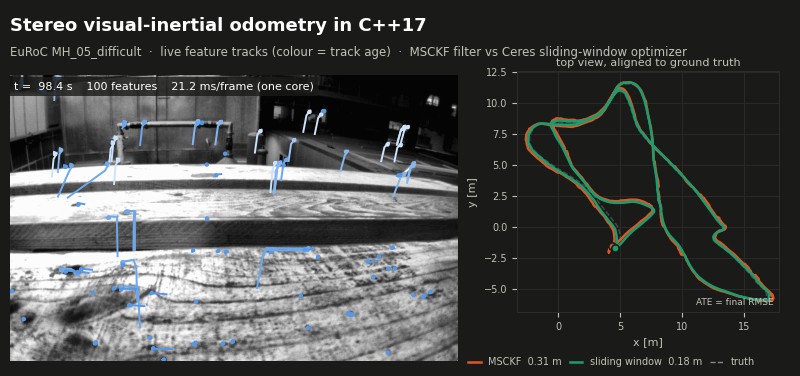
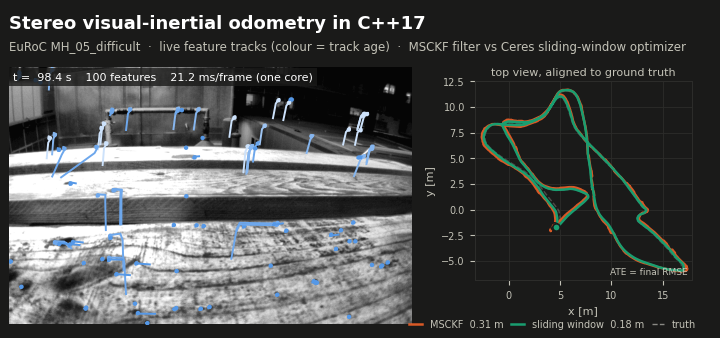
Root README for a quick read: short bullets, tech stack, fair table, smaller GIF
- one-line bullets with the number first; tool list under the title
- table shows mean ATE over the 10 sequences every method completes and
  over all 11; ATE explained in one line
- the Python usage docs move to Code/README.md, which also states what
  came from the course starter code
- demo GIF 9.6 -> 5.3 MB (every 16th frame, 720 px, 64 colours); right
  panel title no longer overlaps the subtitle

diff --git a/cpp/scripts/make_demo_gif.py b/cpp/scripts/make_demo_gif.py
@@ -10,8 +10,9 @@ The README GIF was made with:
   python scripts/make_demo_gif.py --seq-path /path/to/MH_05_difficult \
       --run-dir results/demo/MH_05_difficult \
       --msckf results/backends/msckf/MH_05_difficult/traj_cpp.txt \
-      --out results/final/demo_mh05.gif --step 12 --fps 11 --width 800 --lossy 110
-(every 12th frame at 11 fps: about 6x real time). `run-dir` holds a
+      --out results/final/demo_mh05.gif --step 16 --fps 10 --width 720 --colors 64 \
+      --gray-levels 24 --lossy 150
+(every 16th frame at 10 fps: about 8x real time, 5.4 MB). `run-dir` holds a
 sliding-window run with --dump-features (features_cpp.txt, traj_cpp.txt,
 timing_cpp.csv).
 """
@@ -111,7 +112,7 @@ def main():
     H = W * 0.47
     fig = plt.figure(figsize=(W, H), dpi=dpi, facecolor=SURFACE)
     ax_img = fig.add_axes([0.012, 0.03, 0.56, 0.78])
-    ax_tr = fig.add_axes([0.64, 0.17, 0.34, 0.64])
+    ax_tr = fig.add_axes([0.64, 0.17, 0.34, 0.59])   # top clear of the subtitle
     fig.text(0.012, 0.93, 'Stereo visual-inertial odometry in C++17', color=TEXT, fontsize=13,
              weight='bold', va='center')
     fig.text(0.012, 0.86, f'EuRoC {seq}  ·  live feature tracks (colour = track age)  ·  '

diff --git a/README.md b/README.md
@@ -2,32 +2,33 @@
 
 [![cpp](https://github.com/Shakthi-Bala/Classical_vio/actions/workflows/cpp.yml/badge.svg?branch=cpp)](https://github.com/Shakthi-Bala/Classical_vio/actions/workflows/cpp.yml)
 
+**C++17 · Eigen · Ceres Solver · OpenCV · ROS 2 · CMake · GoogleTest · GitHub Actions · gperftools · Python / NumPy · SLURM**
+
 ![demo](cpp/results/final/demo_mh05.gif)
 
-A stereo MSCKF written in Python, then rebuilt in C++17 and extended:
+A stereo MSCKF implemented in Python for a WPI course (RBE/CS549), then rebuilt in C++17
+and taken further:
 
-- **Port checked against the original.** Fed the same features, the C++ filter matches
-  the Python to 1e-9 m, and the front end produces identical features on every frame.
-- **About 3x faster.** 8.1 ms per frame on one core (6.2x real time) against 25.3 ms for
-  the Python on the same node, after profiling with stage timers, a sampling profiler and
-  flame graphs.
-- **Python quirks measured.** 9 behaviours of the Python code were reproduced on purpose
-  and ablated on 11 EuRoC sequences. The fixes that help cut mean trajectory error from
-  0.615 to 0.249 m.
+- **Exact port:** the C++ filter matches the Python to 1e-9 m on identical input.
+- **3x faster:** 8.1 ms per frame on one core (6.2x real time), against 25.3 ms in Python.
 - **Ceres sliding-window optimizer** written from scratch: IMU preintegration,
-  inverse-depth landmarks, Schur-complement marginalization, analytic Jacobians.
-- **Robust to stereo loss.** On V2_03, cam0's long exposure blurs the images, so the
-  stereo matches vanish for seconds. Keeping cam0-only tracks takes that sequence from
-  0.68 m (and a diverging sliding window) to 0.15–0.20 m.
-- **ROS 2 node** whose real-time output matches the offline run, benchmarked against
-  VINS-Fusion on the same data and metric. 22 unit tests, run in CI.
+  marginalization, analytic Jacobians.
+- **0 failures on all 11 EuRoC sequences**, after finding and fixing why stereo tracking
+  died on the hardest one (V2_03).
+- **Beats VINS-Fusion:** the sliding window averages 0.156 m against 0.217 m, at a third of
+  its latency per frame in ROS 2.
+- **Tested:** 22 unit tests in CI; the inherited Python behaviours were ablated on 11
+  sequences.
 
-| All 11 EuRoC sequences | mean ATE | failures | latency / frame (MH_01) |
-|---|---|---|---|
-| Python MSCKF | 0.390 m (10 seq.) | 1 (crash) | 25 ms offline, 1 core |
-| C++ MSCKF | 0.200 m | 0 | 10.7 ms end to end in ROS 2, 1 core |
-| C++ sliding window | 0.156 m | 0 | 19.1 ms end to end in ROS 2, 1 core |
-| VINS-Fusion (no loop closure) | 0.217 m | 0 | 61 ms end to end in ROS 2, 4 cores |
+| EuRoC MAV | mean ATE, 10 seq. | mean ATE, all 11 | failures | latency / frame (MH_01) |
+|---|---|---|---|---|
+| Python MSCKF | 0.390 m | - | 1 (crash) | 25 ms (offline, no ROS node) |
+| C++ MSCKF | 0.206 m | 0.200 m | 0 | 10.7 ms end to end in ROS 2, 1 core |
+| C++ sliding window | **0.152 m** | **0.156 m** | 0 | 19.1 ms end to end in ROS 2, 1 core |
+| VINS-Fusion (no loop closure) | 0.207 m | 0.217 m | 0 | 61 ms end to end in ROS 2, 4 cores |
+
+*ATE: absolute trajectory error after SE3 alignment. "10 seq." are the sequences every
+method completes; the Python crashes on V2_03.*
 
 <table>
 <tr>
@@ -45,114 +46,12 @@ A stereo MSCKF written in Python, then rebuilt in C++17 and extended:
 </table>
 
 **→ Write-up, plots and how to reproduce: [`cpp/README.md`](cpp/README.md)**
-· Code: [`cpp/`](cpp) (C++17) · original Python: [`Code/`](Code)
 
----
-
-## Original Python implementation
-
-### Stereo MSCKF — Visual-Inertial Odometry (Python)
-
-
-MSCKF (Multi-State Constraint Kalman Filter) is an EKF-based **tightly-coupled**
-visual-inertial odometry algorithm.
-[S-MSCKF](https://arxiv.org/abs/1712.00036) is its stereo version.
-This project is a Python re-implementation translated from the official C++
-implementation [KumarRobotics/msckf_vio](https://github.com/KumarRobotics/msckf_vio).
-
----
-
-## Requirements
-
-```
-Python 3.6+
-numpy
-scipy
-opencv-python   (cv2)
-matplotlib
-pangolin        (optional — only needed for --view)
-```
-
-Install the required packages:
-
-```bash
-pip install numpy scipy opencv-python matplotlib
-```
-
----
-
-## Dataset
-
-Download the [EuRoC MAV dataset](http://projects.asl.ethz.ch/datasets/doku.php?id=kmavvisualinertialdatasets).
-This project has been tested on **MH_01_easy**.
-
-Expected folder structure:
-
-```
-MH_01_easy/
-└── mav0/
-    ├── cam0/data/          # left camera images
-    ├── cam1/data/          # right camera images
-    ├── imu0/data.csv       # IMU measurements
-    └── state_groundtruth_estimate0/data.csv
-```
-
-> **Absolute path note:** the default dataset path in `vio.py` is hardcoded to
-> `/home/alien/YourDirectoryID_p4/MH_01_easy`.
-> Pass `--path` explicitly if your dataset lives elsewhere (see commands below).
-
----
-
-## Running
-
-### Basic run (no visualisation)
-
-```bash
-cd Code
-python vio.py
-```
-
-### With a custom dataset path
-
-```bash
-python vio.py --path /path/to/MH_01_easy
-```
-
-### With live 3-D trajectory viewer (requires pangolin)
-
-```bash
-python vio.py --view
-```
-
----
-
-## Outputs
-
-| Location | Contents |
+| Directory | Contents |
 |---|---|
-| `output_frames/frame_XXXXX.png` | Per-frame canvas: grey GT path, black estimated path, camera frustum, stereo feature inset with GT/EST position text |
-| `plots/1_rotation_error.png` | Roll (blue), Pitch (green), Yaw (red) error over time |
-| `plots/2_translation_error.png` | X (red), Y (green), Z (blue) translation error over time |
-| `plots/3a_trajectory_xy.png` | GT (pink) vs estimated (blue) — top-down X–Y view |
-| `plots/3b_trajectory_xz.png` | GT (pink) vs estimated (blue) — X–Z view |
-| `plots/4_scale_drift.png` | Scale ratio vs cumulative distance travelled |
-| `plots/5a_rpe_scaramuzza.png` | RPE mean ± std at multiple segment lengths (Scaramuzza IROS 2018) |
-| `plots/5b_relative_errors_vs_dist.png` | Relative translation (%) and yaw error (deg) vs distance |
-| `plots/6_ate_over_time.png` | Absolute Trajectory Error (Umeyama SE3 aligned) |
-| `plots/rmse_report.txt` | RMSE summary: ATE, rotation, scale drift |
+| [`cpp/`](cpp) | C++17 VIO: MSCKF and sliding-window back ends, ROS 2 node, tests, evaluation scripts, results |
+| [`Code/`](Code) | the original Python MSCKF ([README](Code/README.md)) |
 
-All plots and the RMSE report are generated automatically at the end of the run.
-
----
-
-## License
-
-Follows the [license of msckf_vio](https://github.com/KumarRobotics/msckf_vio/blob/master/LICENSE.txt).
-Code adapted from [uoip/stereo_msckf](https://github.com/uoip/stereo_msckf).
-
-
-
- ## Dataset link 
- ```bash
-https://drive.google.com/drive/folders/10sMVL7Df9jisSE0bZe9T_aaj9QrB7xNw
-```
+The Python code builds on the course's starter code, translated from
+[KumarRobotics/msckf_vio](https://github.com/KumarRobotics/msckf_vio); it follows the
+[msckf_vio license](https://github.com/KumarRobotics/msckf_vio/blob/master/LICENSE.txt).

diff --git a/Code/README.md b/Code/README.md
@@ -1,32 +1,78 @@
-# Stereo MSCKF Starter Code for [WPI's](https://www.wpi.edu/) [RBE/CS549](https://nitinjsanket.github.io/teaching/rbe549/fall2022.html) by [Prof. Nitin J. Sanket](https://nitinjsanket.github.io/)
-See [the course website](https://nitinjsanket.github.io/teaching/rbe549/fall2022.html) for more details. The code was modified by [Dr. Lening Li.](https://lening.li/)
+# Stereo MSCKF in Python
 
-MSCKF (Multi-State Constraint Kalman Filter) is an EKF based **tightly-coupled** visual-inertial odometry algorithm. [S-MSCKF](https://arxiv.org/abs/1712.00036) is MSCKF's stereo version. This project is a Python reimplemention of S-MSCKF, the code is directly translated from official C++ implementation [KumarRobotics/msckf_vio](https://github.com/KumarRobotics/msckf_vio).  
+The Python stereo MSCKF that the C++ port in [`../cpp`](../cpp) reproduces. It was built for
+[WPI's](https://www.wpi.edu/) [RBE/CS549](https://nitinjsanket.github.io/teaching/rbe549/fall2022.html)
+(Prof. [Nitin J. Sanket](https://nitinjsanket.github.io/)) on the course's starter code,
+modified by [Dr. Lening Li](https://lening.li/). The filter functions (gravity and bias
+initialization, IMU processing, process model, state augmentation, measurement update,
+pruning) were implemented in this project; the starter code is the first commits.
 
+MSCKF (Multi-State Constraint Kalman Filter) is an EKF-based tightly coupled
+visual-inertial odometry algorithm. [S-MSCKF](https://arxiv.org/abs/1712.00036) is its
+stereo version. The starter code is translated from the official C++ implementation
+[KumarRobotics/msckf_vio](https://github.com/KumarRobotics/msckf_vio).
 
-For algorithm details, please refer to:
-* Robust Stereo Visual Inertial Odometry for Fast Autonomous Flight, Ke Sun et al. (2017)
-* A Multi-State Constraint Kalman Filterfor Vision-aided Inertial Navigation, Anastasios I. Mourikis et al. (2006)  
+For algorithm details:
+- Ke Sun et al., *Robust Stereo Visual Inertial Odometry for Fast Autonomous Flight* (2017)
+- Anastasios I. Mourikis et al., *A Multi-State Constraint Kalman Filter for Vision-aided
+  Inertial Navigation* (2006)
+
+How this code behaves on all 11 EuRoC sequences, and the behaviours of it that the C++
+port reproduces and then fixes, are in [`../cpp/README.md`](../cpp/README.md).
 
 ## Requirements
-* Python 3.6+
-* numpy
-* scipy
-* cv2
-* [pangolin](https://github.com/uoip/pangolin) (optional, for trajectory/poses visualization)
+
+Python 3.6+, numpy, scipy, opencv-python, matplotlib, and optionally
+[pangolin](https://github.com/uoip/pangolin) for the live viewer (`--view`).
+
+```bash
+pip install numpy scipy opencv-python matplotlib
+```
 
 ## Dataset
-* [EuRoC MAV](http://projects.asl.ethz.ch/datasets/doku.php?id=kmavvisualinertialdatasets): visual-inertial datasets collected on-board a MAV. The datasets contain stereo images, synchronized IMU measurements, and ground-truth.  
-This project implements data loader and data publisher for EuRoC MAV dataset.
 
-## Run  
-`python vio.py --view --path path/to/your/EuRoC_MAV_dataset/MH_01_easy`  
-or    
-`python vio.py --path path/to/your/EuRoC_MAV_dataset/MH_01_easy` (no visualization)  
+[EuRoC MAV](http://projects.asl.ethz.ch/datasets/doku.php?id=kmavvisualinertialdatasets):
+stereo images, synchronized IMU and ground truth, recorded on board a MAV. The course copy
+of MH_01_easy is on [Google Drive](https://drive.google.com/drive/folders/10sMVL7Df9jisSE0bZe9T_aaj9QrB7xNw).
 
-## Results
-MH_01_easy  
-![](imgs/euroc_mh_01_easy.png)
+```
+MH_01_easy/
+└── mav0/
+    ├── cam0/data/          # left camera images
+    ├── cam1/data/          # right camera images
+    ├── imu0/data.csv       # IMU measurements
+    └── state_groundtruth_estimate0/data.csv
+```
 
-## License and References
-Follow [license of msckf_vio](https://github.com/KumarRobotics/msckf_vio/blob/master/LICENSE.txt). Code is adapted from [this implementation](https://github.com/uoip/stereo_msckf).
+## Run
+
+```bash
+cd Code
+python vio.py --path /path/to/MH_01_easy           # no visualization
+python vio.py --path /path/to/MH_01_easy --view    # live 3-D viewer (pangolin)
+```
+
+`vio.py` runs the image, IMU and filter in threads against a wall clock, so two runs give
+slightly different results. For a reproducible run, use
+[`../cpp/scripts/run_python_reference.py`](../cpp/scripts/run_python_reference.py).
+
+## Outputs
+
+| Location | Contents |
+|---|---|
+| `output_frames/frame_XXXXX.png` | Per-frame canvas: ground-truth and estimated path, camera frustum, stereo feature inset |
+| `plots/1_rotation_error.png` | Roll, pitch and yaw error over time |
+| `plots/2_translation_error.png` | x, y and z translation error over time |
+| `plots/3a_trajectory_xy.png`, `3b_trajectory_xz.png` | Ground truth vs estimate, top and side view |
+| `plots/4_scale_drift.png` | Scale ratio vs distance travelled |
+| `plots/5a_rpe_scaramuzza.png` | RPE mean ± std at several segment lengths (Scaramuzza, IROS 2018) |
+| `plots/5b_relative_errors_vs_dist.png` | Relative translation (%) and yaw error (deg) vs distance |
+| `plots/6_ate_over_time.png` | Absolute trajectory error (Umeyama SE3 alignment) |
+| `plots/rmse_report.txt` | RMSE summary: ATE, rotation, scale drift |
+
+![MH_01_easy](imgs/euroc_mh_01_easy.png)
+
+## License
+
+Follows the [license of msckf_vio](https://github.com/KumarRobotics/msckf_vio/blob/master/LICENSE.txt).
+The code is adapted from [uoip/stereo_msckf](https://github.com/uoip/stereo_msckf).

diff --git a/cpp/README.md b/cpp/README.md
@@ -4,7 +4,7 @@
 
 ![demo](results/final/demo_mh05.gif)
 
-*EuRoC MH_05_difficult at about 6x speed: feature tracks from the front end (left, colour =
+*EuRoC MH_05_difficult at about 8x speed: feature tracks from the front end (left, colour =
 track age, contrast-enhanced for display) and both back ends' trajectories against ground
 truth (right). Rendered by [`scripts/make_demo_gif.py`](scripts/make_demo_gif.py) from the
 runs' own outputs.*
